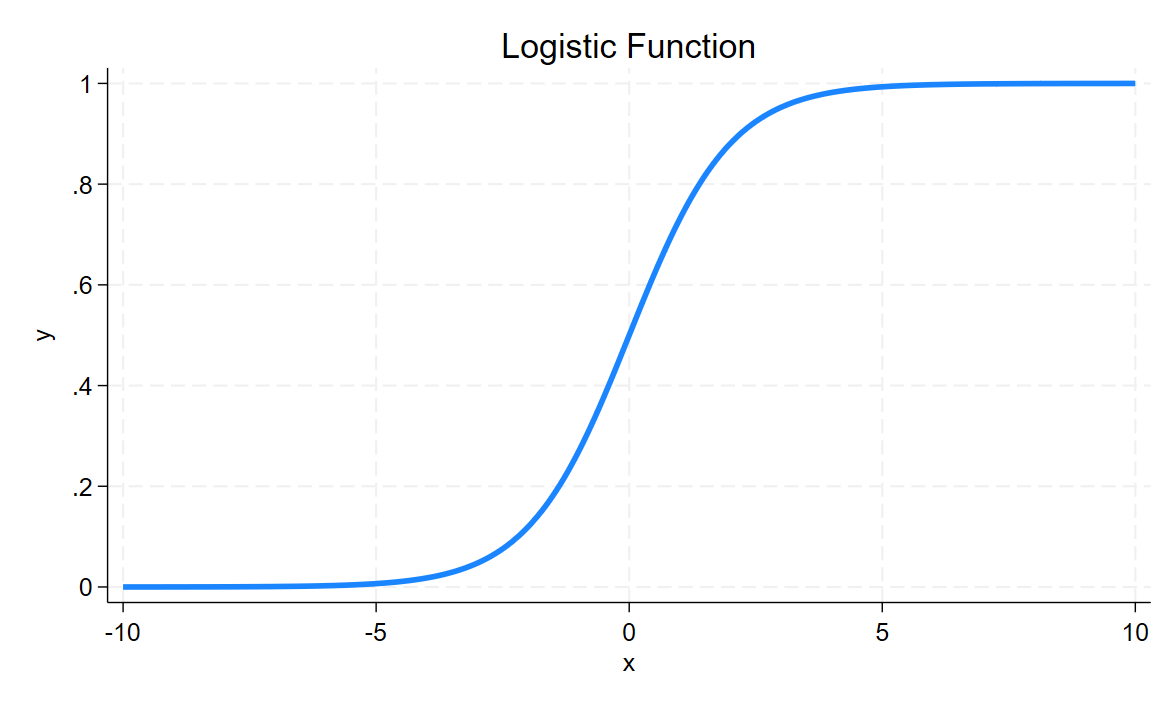
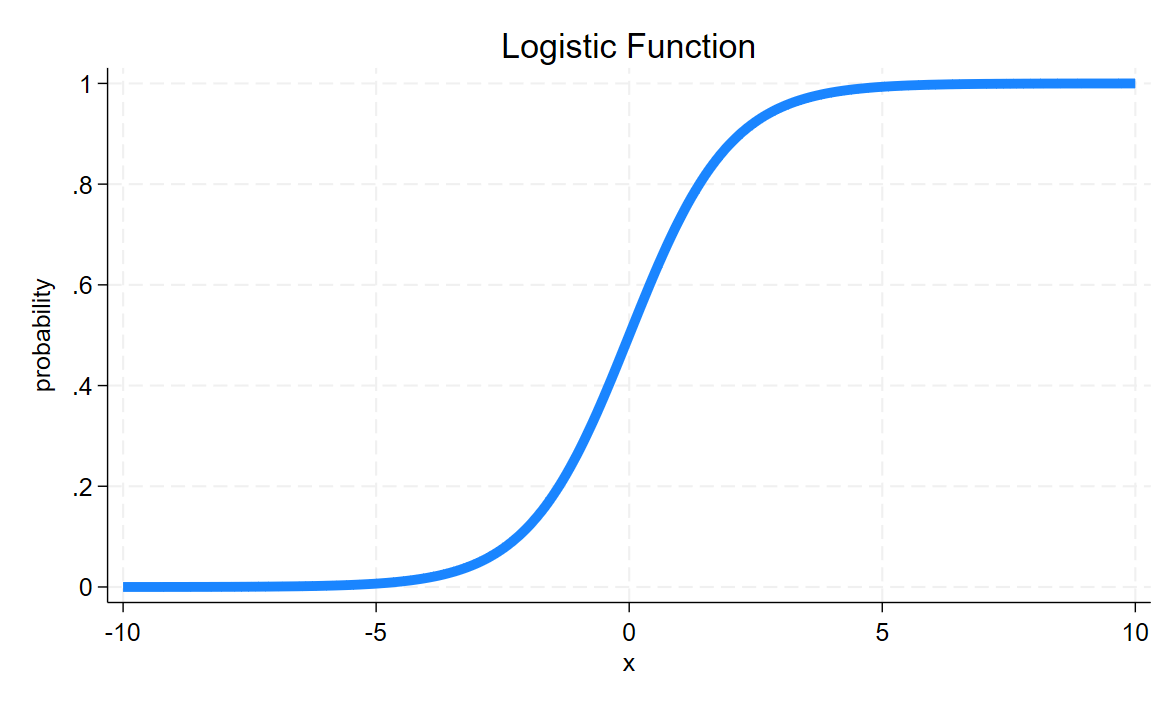
SECOND MAJOR COMMIT

diff --git a/logarithms/logarithms.html b/logarithms/logarithms.html
@@ -22,7 +22,27 @@ ul.task-list li input[type="checkbox"] {
   margin: 0 0.8em 0.2em -1em; /* quarto-specific, see https://github.com/quarto-dev/quarto-cli/issues/4556 */ 
   vertical-align: middle;
 }
-</style>
+/* CSS for citations */
+div.csl-bib-body { }
+div.csl-entry {
+  clear: both;
+  margin-bottom: 0em;
+}
+.hanging-indent div.csl-entry {
+  margin-left:2em;
+  text-indent:-2em;
+}
+div.csl-left-margin {
+  min-width:2em;
+  float:left;
+}
+div.csl-right-inline {
+  margin-left:2em;
+  padding-left:1em;
+}
+div.csl-indent {
+  margin-left: 2em;
+}</style>
 
 
 <script src="logarithms_files/libs/clipboard/clipboard.min.js"></script>
@@ -85,8 +105,8 @@ window.Quarto = {
       <style>
         :root {
           --cr-narrative-background-color-overlay: grey;
---cr-narrative-background-color-sidebar: white;
 --cr-section-background-color: white;
+--cr-narrative-background-color-sidebar: white;
 --cr-narrative-text-color-sidebar: black;
         }
       </style>
@@ -214,13 +234,13 @@ window.Quarto = {
 </div>
 <div class="trigger new-trigger" data-focus-on="cr-solve-for-y">
 <div class="narrative">
-<p>To <em>graph</em> or <em>visualize</em> these <em>log odds</em>, we need to solve for <span class="math inline">\(p(y)\)</span>:</p>
+<p>To <em>graph</em> or <em>visualize</em> these <em>log odds</em>, we need to solve for <span class="math inline">\(p(\text{outcome})\)</span>, the probability of the outcome:</p>
 </div>
 </div>
 <div class="trigger new-trigger" data-focus-on="cr-sigmoid">
 <div class="narrative">
-<p>This function is sometimes called a <em>sigmoid</em>, and has the interesting property of mapping the interval <span class="math inline">\(- \infty &lt; x &lt; \infty\)</span> to <span class="math inline">\(0 &lt; y &lt; 1\)</span>.</p>
-<p>This is the first step in mapping a set of <em>continuous</em> predictors to a <em>categorical</em> outcome.</p>
+<p>This function is sometimes called a <em>sigmoid</em>, and has the interesting property of mapping the interval <span class="math inline">\(- \infty &lt; x &lt; \infty\)</span> to <span class="math inline">\(0 &lt; \text{probability} &lt; 1\)</span>.</p>
+<p>This is the first step in mapping a set of <em>continuous</em> predictors to the probability of <em>categorical</em> outcome.</p>
 </div>
 </div>
 <section id="logarithmic-spiral" class="level2 narrative trigger">
@@ -321,7 +341,7 @@ Key Idea
 <div class="quarto-figure quarto-figure-center">
 <figure class="figure">
 <p><img src="hawk.png" class="img-fluid figure-img"></p>
-<figcaption>Spiral Flight of Hawk from <span class="citation" data-cites="Livio2002">@Livio2002</span></figcaption>
+<figcaption>Spiral Flight of Hawk from <span class="citation" data-cites="Livio2002">Livio (<a href="#ref-Livio2002" role="doc-biblioref">2002</a>)</span></figcaption>
 </figure>
 </div>
 </div>
@@ -333,7 +353,12 @@ Key Idea
 </div>
 
 
-<div id="quarto-appendix" class="default"><section id="footnotes" class="footnotes footnotes-end-of-document" role="doc-endnotes"><h2 class="anchored quarto-appendix-heading">Footnotes</h2>
+
+<div id="quarto-appendix" class="default"><section class="quarto-appendix-contents" role="doc-bibliography" id="quarto-bibliography"><h2 class="anchored quarto-appendix-heading">References</h2><div id="refs" class="references csl-bib-body hanging-indent" data-entry-spacing="0" role="list">
+<div id="ref-Livio2002" class="csl-entry" role="listitem">
+Livio, Mario. 2002. <em>The Golden Ratio: The Story of Phi, the World’s Most Astonishing Number</em>. <em>The Golden Ratio: The Story of Phi, the World’s Most Astonishing Number</em>. 1st ed. Broadway Books.
+</div>
+</div></section><section id="footnotes" class="footnotes footnotes-end-of-document" role="doc-endnotes"><h2 class="anchored quarto-appendix-heading">Footnotes</h2>
 
 <ol>
 <li id="fn1"><p>A common definition of <span class="math inline">\(e\)</span> is <span class="math display">\[e = \lim_{n \to \infty} \left(1 + \frac{1}{n} \right)^n\]</span><a href="#fnref1" class="footnote-back" role="doc-backlink">↩</a></p></li>
